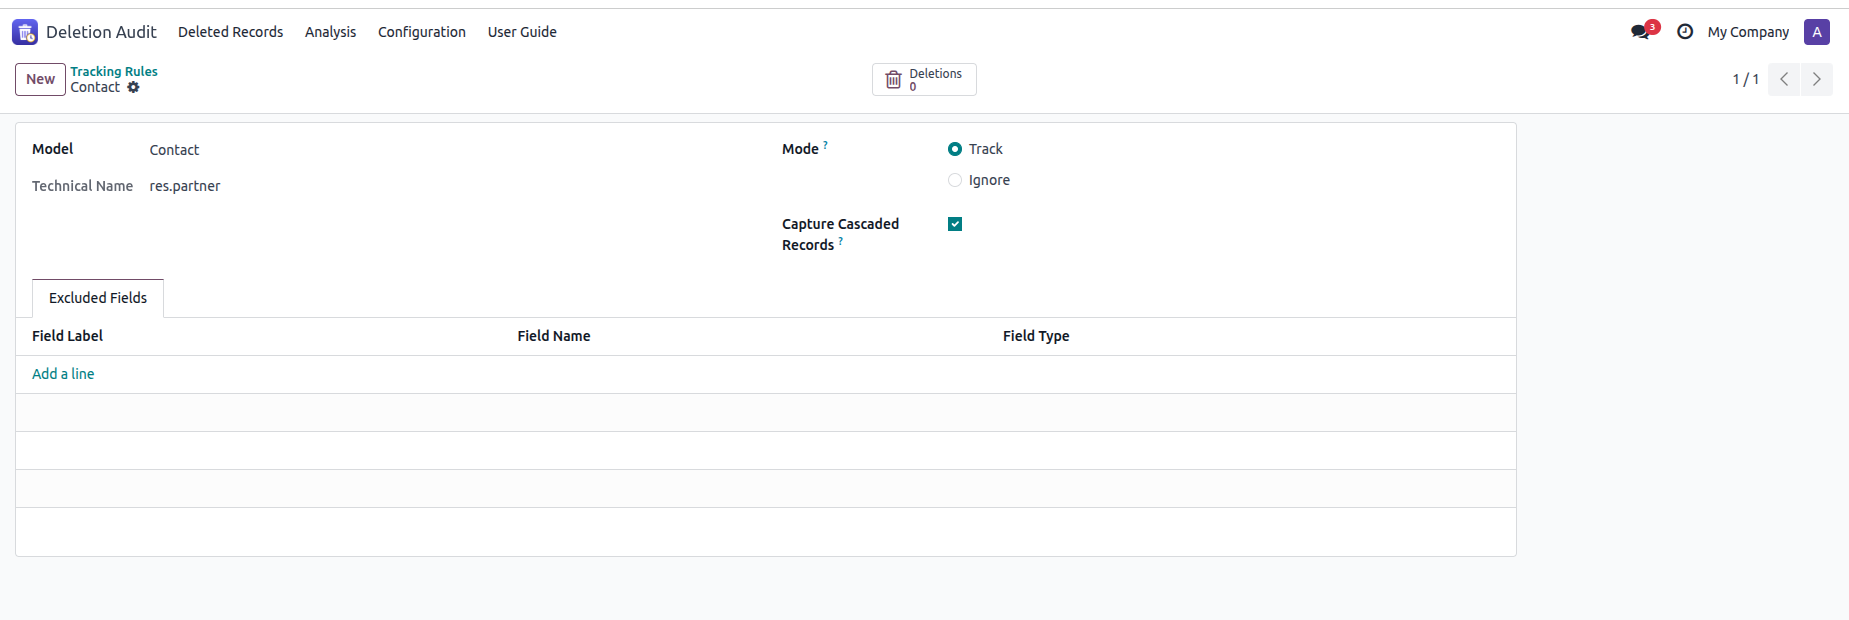
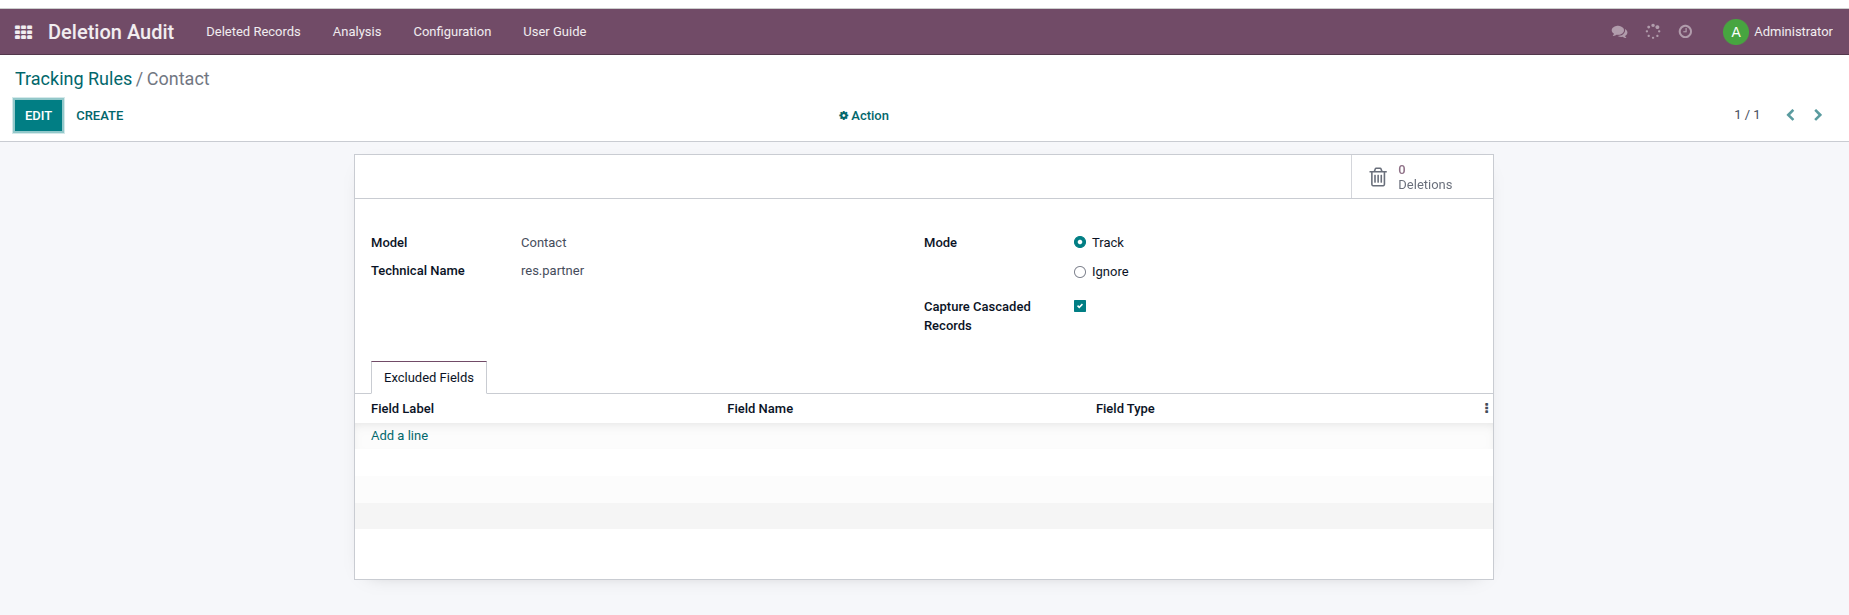
[IMP] mrz_deletion_audit: screenshots taken on Odoo 15
The page was showing Odoo 18 screens, which look nothing like 15: this
branch is sold to people running 15, and the interface they see is the one
they should recognise.

The list of deleted records is on this page too, which the other branches
do not have yet.

diff --git a/mrz_deletion_audit/static/description/index.html b/mrz_deletion_audit/static/description/index.html
@@ -92,6 +92,16 @@
         </div>
     </div>
 
+    <!-- The log -->
+    <div class="row pb-4">
+        <div class="col-12">
+            <img src="screenshot_list.png" alt="The list of deleted records"
+                 class="w-100 border rounded"/>
+            <p class="text-muted mt-2 mb-0">Every deletion in one list: when, by whom, which document,
+                from where, and how many records went with it.</p>
+        </div>
+    </div>
+
     <!-- Configuration -->
     <div class="row g-4 pb-4">
         <div class="col-md-6">
